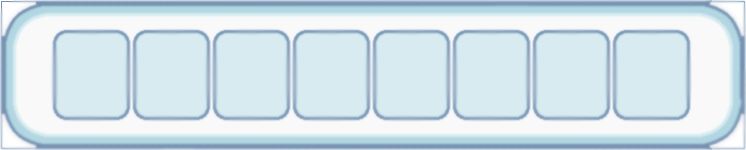
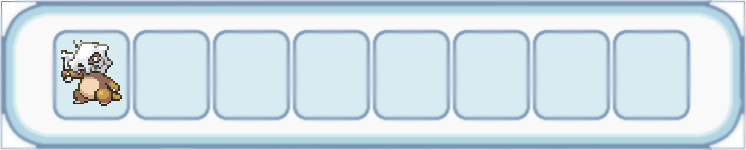
Added health and money display, and added Cubone to towerstore

Changed region(s): [[0.0617, 0.2667, 0.185, 0.72]]

diff --git a/src/GUI/GameView.java b/src/GUI/GameView.java
@@ -3,6 +3,7 @@ package GUI;
 import java.awt.Color;
 import java.awt.Cursor;
 import java.awt.Dimension;
+import java.awt.Font;
 import java.awt.Graphics;
 import java.awt.Image;
 import java.awt.MouseInfo;
@@ -30,6 +31,7 @@ import javax.swing.ImageIcon;
 import javax.swing.JFrame;
 import javax.swing.JLabel;
 import javax.swing.JPanel;
+import javax.swing.JProgressBar;
 import javax.swing.Timer;
 import javax.swing.UIManager;
 
@@ -69,6 +71,10 @@ public class GameView extends JFrame implements MouseListener, MouseWheelListene
 	private Point scrollLocation;
 	private Point scrollLast;
 	private Point mouseLoc;
+	private JPanel playerMoneyPanel;
+	private JLabel playerMoneyLabel;
+	private JPanel playerHealthPanel;
+	private JProgressBar playerHealthLabel;
 	double viewScale = 1;
 	boolean repaintGUI = true;
 	boolean clickedTowerStore = false;
@@ -221,6 +227,26 @@ public class GameView extends JFrame implements MouseListener, MouseWheelListene
 		selectedTowerFromStore.setVisible(false);
 		this.add(selectedTowerFromStore);
 		
+		playerMoneyPanel = new JPanel();
+		playerMoneyPanel.setBounds(0,0, 100, 25);
+		playerMoneyLabel = new JLabel("$0");
+		playerMoneyPanel.add(playerMoneyLabel);
+		this.add(playerMoneyPanel);
+		
+		playerHealthPanel = new JPanel();
+		playerHealthPanel.setBounds(getWidth()-200, 0, 200, 25);
+		playerHealthLabel = new JProgressBar();
+		playerHealthLabel.setValue(100);
+		playerHealthLabel.setBackground(Color.RED);
+		playerHealthLabel.setForeground(Color.GREEN);
+		playerHealthLabel.setMaximum(100);
+		playerHealthLabel.setMinimum(0);
+		playerHealthLabel.setStringPainted(true);
+		Font tempFont = new Font("Comic Sans MS", Font.PLAIN, 10);
+		playerHealthLabel.setFont(tempFont);
+		playerHealthPanel.add(playerHealthLabel);
+		this.add(playerHealthPanel);
+		
 		//Create and size the towerStore background image
 		towerStoreBG = createImageIcon("/images/towerStore.png");
 		towerStoreBGOrig = towerStoreBG.getImage();
@@ -229,7 +255,7 @@ public class GameView extends JFrame implements MouseListener, MouseWheelListene
 		temp.setBounds(0, 0, getSize().width, getSize().height/4);
 		towerStorePanel = new JPanel();
 		towerStorePanel.setLayout(null);
-		towerStorePanel.setBounds(0, (int) (3*(getSize().height)/4), getSize().width, getSize().height/4 );
+		towerStorePanel.setBounds(0, (int) (3*(getSize().height)/4)-20, getSize().width, getSize().height/4 );
 		towerStorePanel.setBackground(null);
 		towerStorePanel.add(temp);
 		this.add(towerStorePanel); //Added this line -PH
@@ -241,6 +267,8 @@ public class GameView extends JFrame implements MouseListener, MouseWheelListene
 		//board.add(labelTemp);
 		board.setBackground(Color.BLUE);
 		this.add(board); //moved this line here -PH
+		
+		
 		
 		
 		setResizable(false);
@@ -442,12 +470,14 @@ public class GameView extends JFrame implements MouseListener, MouseWheelListene
 	//whenever these values are changed in the model
 	public void setPlayerHP(int hp) {
 		this.playerHP = hp;
-		
+		playerHealthLabel.setValue(playerHP);
+		System.out.println("Player now has $" + playerHP);
 	}
 
 	public void setPlayerMoney(int money) {
 		this.playerMoney = money;
-		
+		playerMoneyLabel.setText("$" + playerMoney);
+		System.out.println("Player now has $" + playerMoney);
 	}
 	
 	
